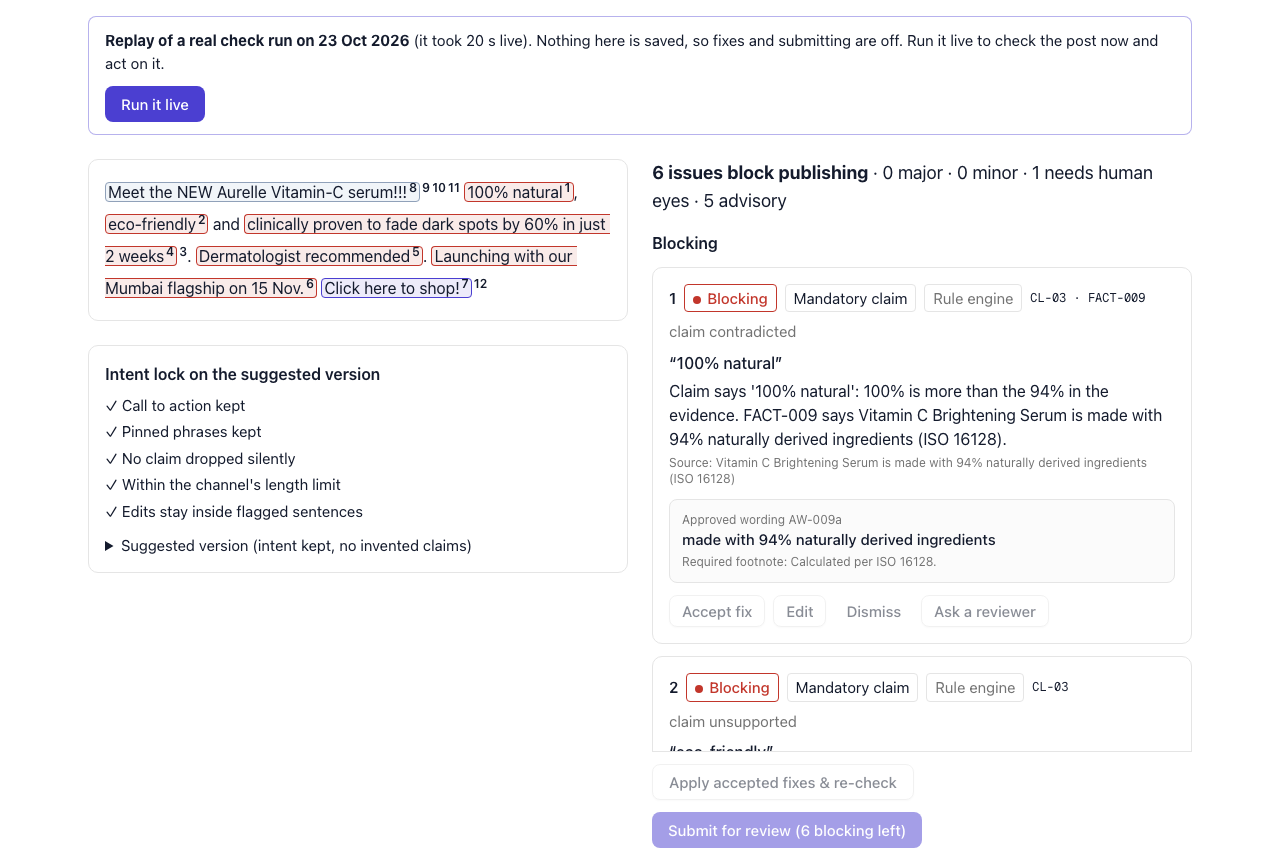
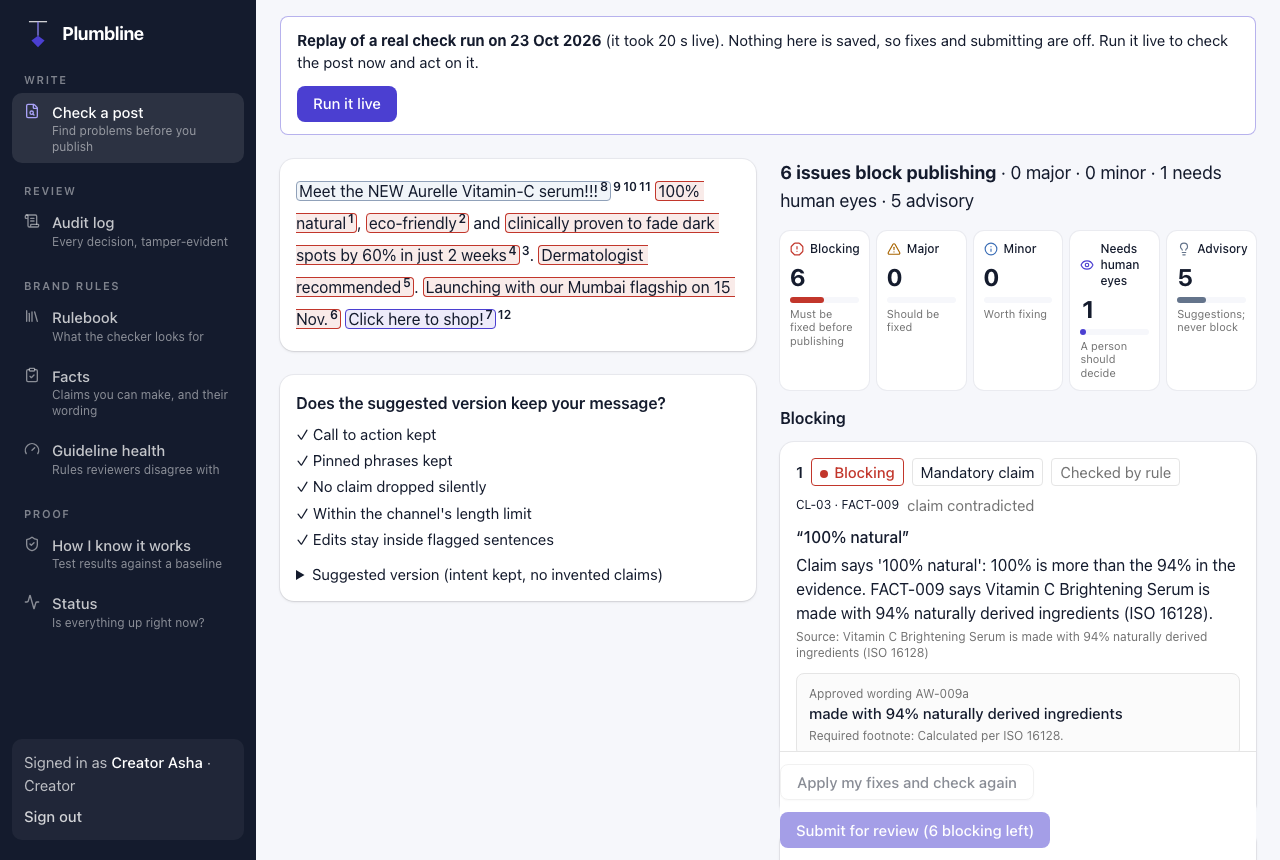
docs: stranger test findings and redesign; refreshed screenshots

diff --git a/docs/build-log.md b/docs/build-log.md
@@ -954,3 +954,53 @@ Chrome as in Round 1).
 **Open for the user**
 - The stranger test (Task 22, Step 4).
 - Tag `round2-submission` and stop pushing before 25 Oct 08:00 IST.
+
+## Task 22 follow-up: the stranger test, and the redesign it led to
+
+**What the tester said (one person, first time on the app):** it looks plain and template-made (no colour,
+no motion, no charts); buttons seem not to respond, so they clicked 3–4 times; features are hard to find
+and sit "far out"; wording is too generic to know what to do; similar features aren't together.
+
+**What was measured before changing anything (live, 1280 px)**
+- Sign-in: nothing on screen for 4.4 s after "Try as …", content after 7.7 s.
+- Every navigation: the old page stayed up with no feedback until the new one was ready (1.3–2.8 s).
+- Cause: no loading or pending states anywhere, and the server code ran in Washington (`iad1`) while the
+  database is in Mumbai, so each page paid several round trips across the world before it showed.
+
+**What changed**
+- *Speed:* server code pinned to Mumbai (`vercel.json`, now `bom1::bom1`); a shared layout for signed-in
+  pages loads the profile once and keeps the sidebar mounted; an instant loading skeleton on every page;
+  "Signing in…" / "Signing out…" pending buttons that can't be clicked twice.
+- *Finding things:* a permanent sidebar (a Menu button on phones) grouping similar features (Write ·
+  Review · Brand rules · Proof), each with a one-line description; each role opens where its work is.
+- *Design:* the brand palette used with intent (an ink sidebar and hero, indigo actions, a cool chalk
+  background, white cards); Bricolage Grotesque for titles, Public Sans for text, JetBrains Mono for IDs
+  and evidence; one motion (the plumb bob settles to vertical on the sign-in page; reduced motion
+  respected); the sign-in hero shows a real finding from the sample post with its citation and the
+  approved wording.
+- *Charts:* guideline health draws each rule's agreement and its 95% range against the 80% "ready to
+  block" plumb line; the results page draws Plumbline against the baseline with intervals; check results
+  get one labelled tile per severity group. Palettes run through the dataviz validator: indigo vs teal
+  `#0C9A8F` passes every check (CVD ΔE 22.9); a single stacked severity bar was rejected because
+  blocking red vs major amber is ΔE 2.7 for deuteranopes, so each group is its own labelled tile.
+- *Wording:* page purposes rewritten in plain words ("Check a post", "Checked by rule", "Does the
+  suggested version keep your message?", "Apply my fixes and check again").
+
+**Measured after (preview, then production)**
+
+| | Before | After |
+|---|---|---|
+| Sign-in: first feedback | none for 4.4 s | "Signing in…" at 0.14 s |
+| Sign-in: on the role's page | 4.4 s | 1.8 s |
+| Navigation: first feedback | none until loaded (1.3–2.8 s) | skeleton in ~50 ms |
+| Check page ready / Rulebook ready | 1.36 s / 2.3 s | 0.86 s / 1.36 s |
+| e2e suite on the live site | 3.2 min | 2.3 min (preview) |
+
+- No horizontal overflow at 1280 px or on a phone profile for login, check, health and results (after
+  fixing two found in review: chart value labels pushed past the edge on phones, now a fixed value column;
+  the hero example inherited white text on a white card).
+- All 18 e2e tests pass on production. One failed during the switch-over (it ran against the old build's
+  button label while the alias moved) and passed on rerun.
+- Shipped through a branch preview first, then fast-forwarded to `main`.
+
+**Not yet done:** a second stranger test on the new design (the plan's "under 3 minutes without help").
